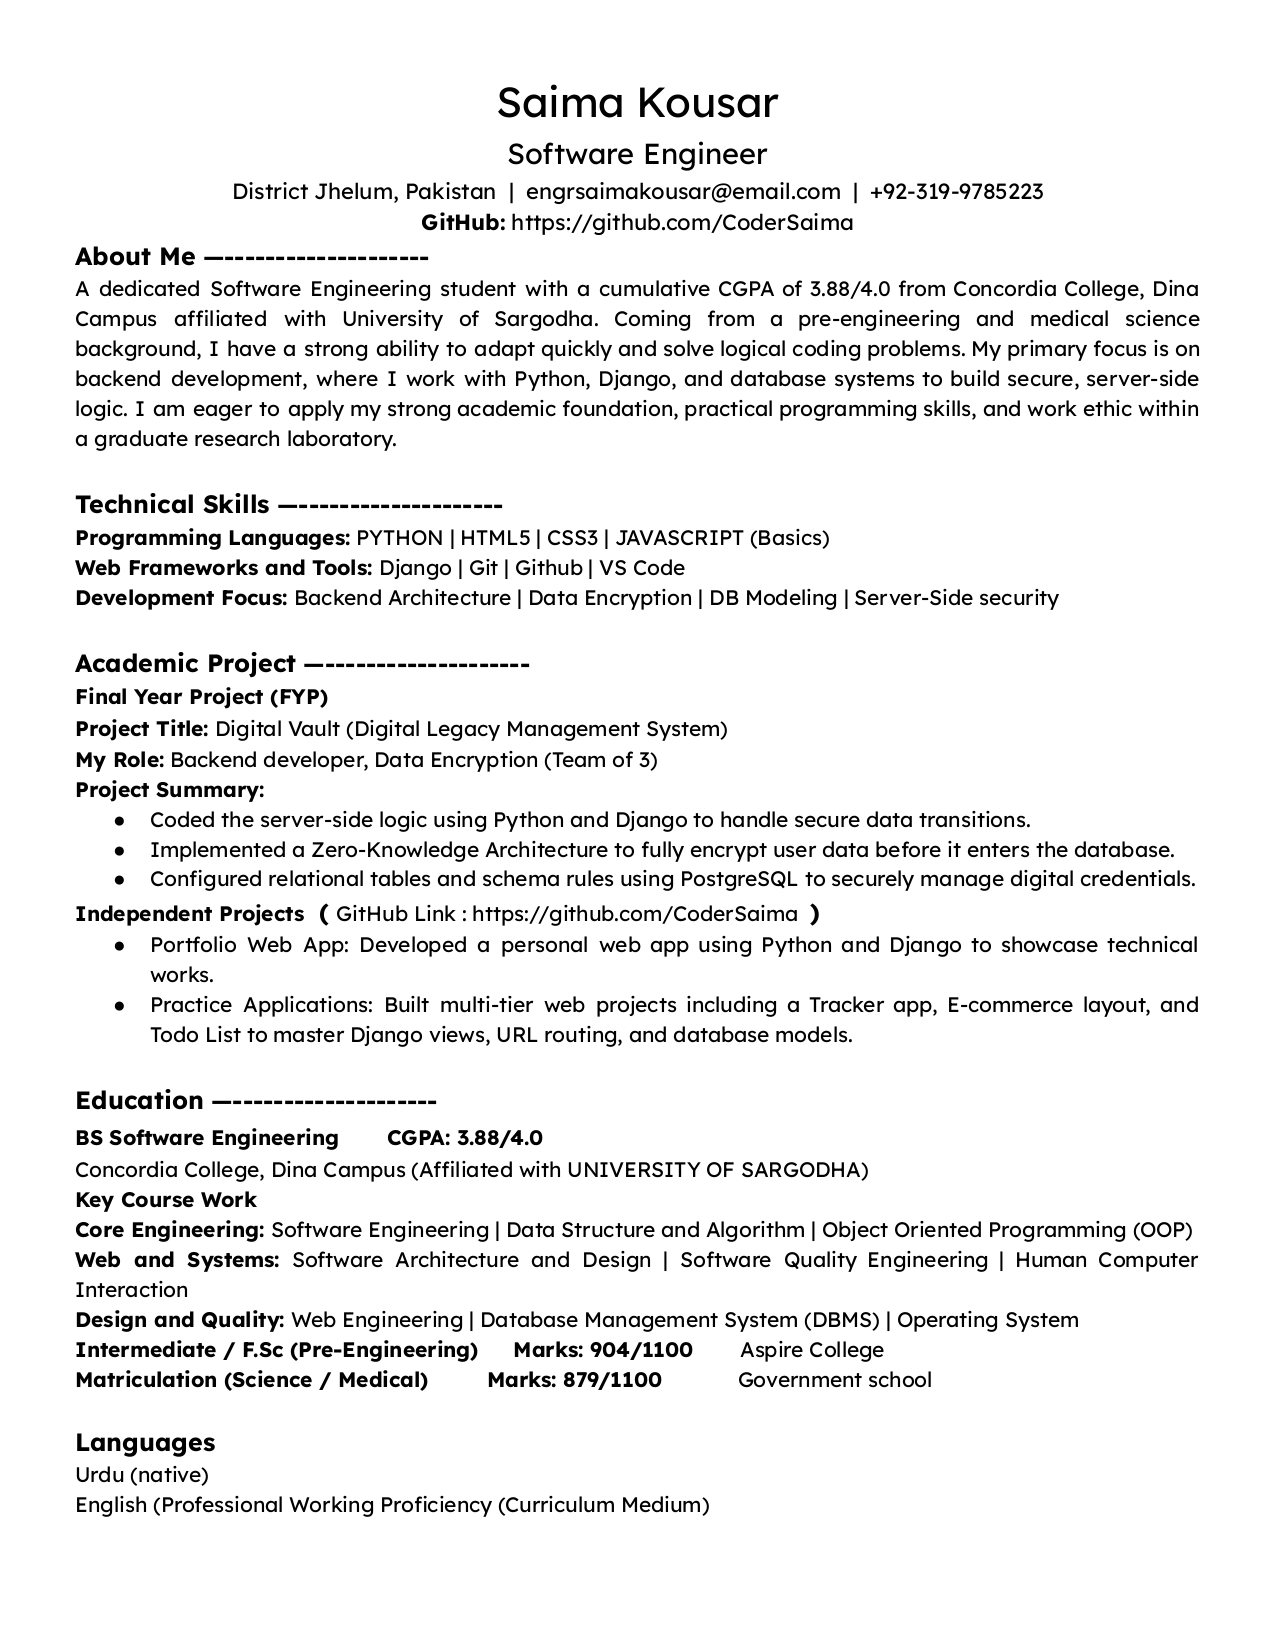
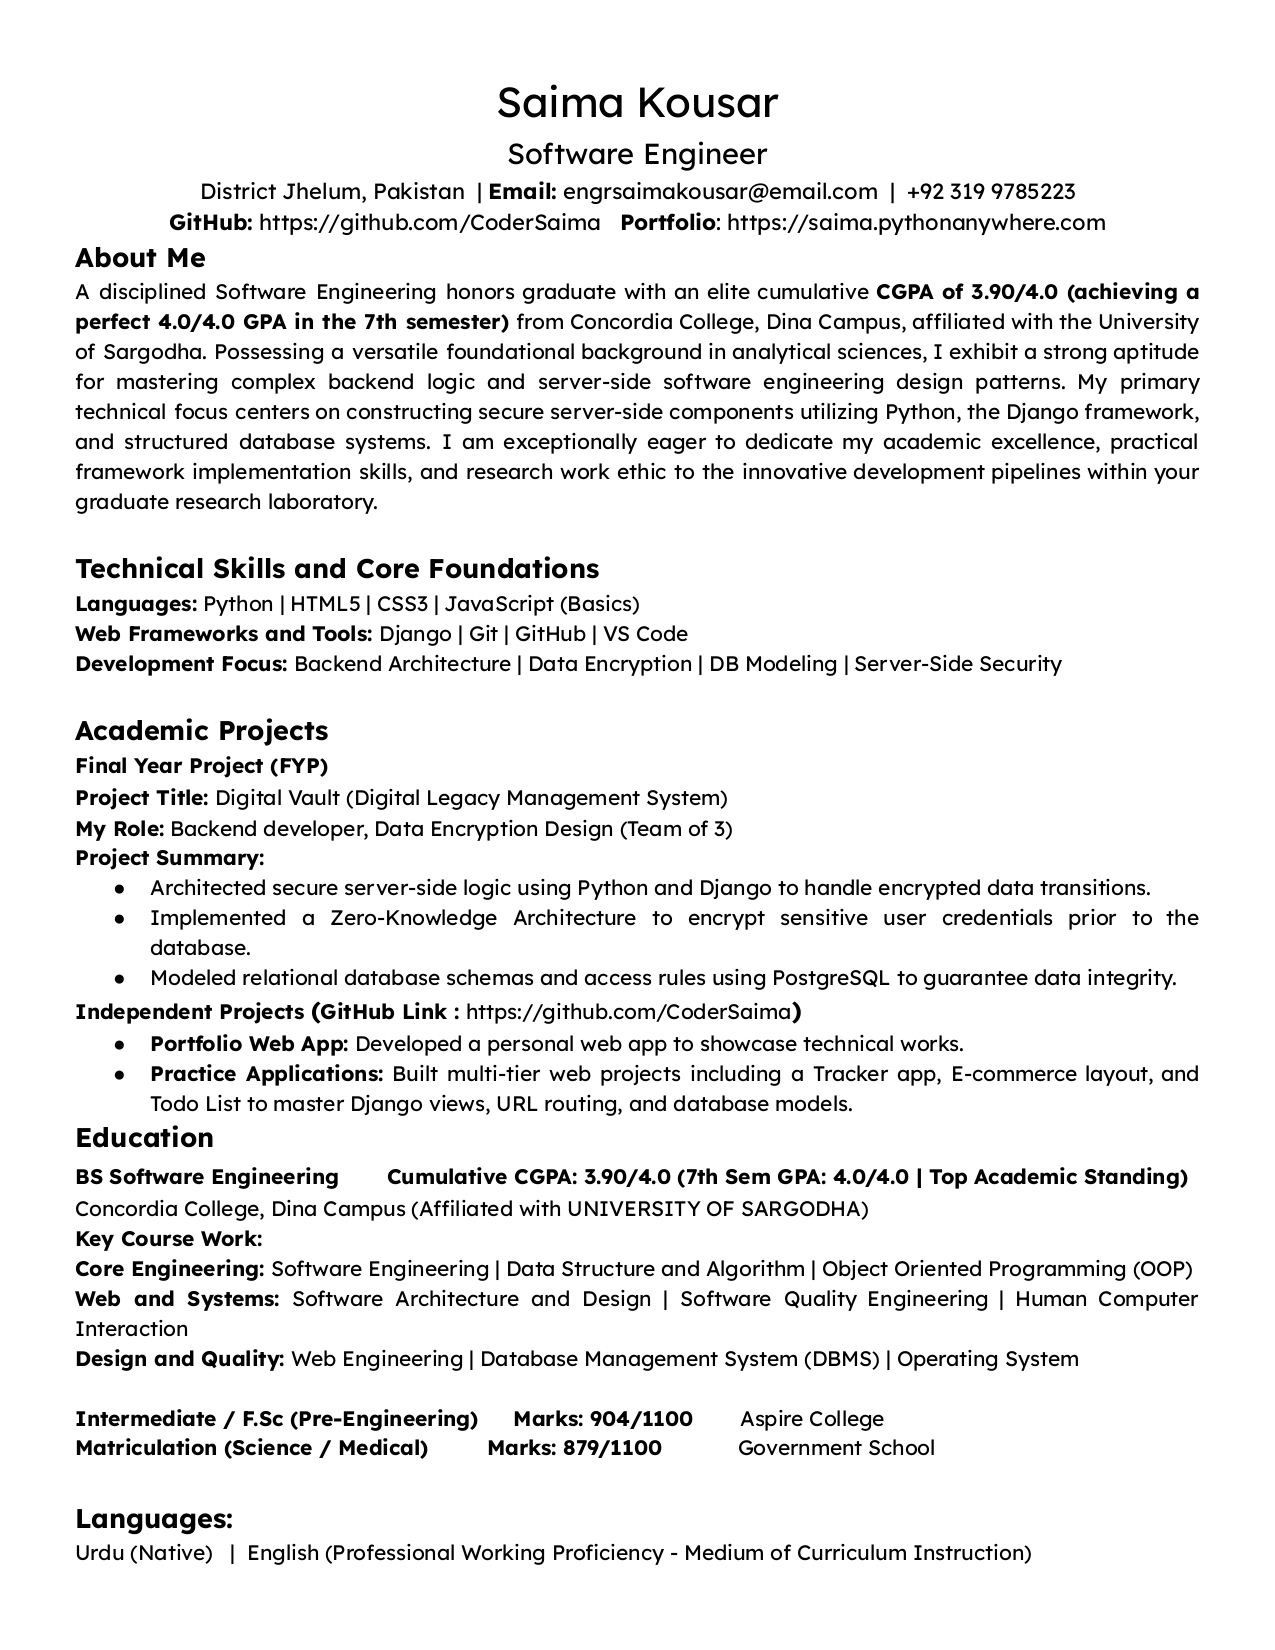
update resume image

diff --git a/portfolioApp/templates/about.html b/portfolioApp/templates/about.html
@@ -270,7 +270,7 @@ load static %} {% block content %}
       </h2>
 
       <!-- Clean, balanced Action Button with correct W3C SVG namespace -->
-      <a href="/static/images/Resume.jpg" target="_blank"
+      <a href="/static/images/resume.jpg" target="_blank"
         class="inline-flex items-center gap-2 text-sm font-semibold text-[#e58679] hover:text-white bg-[#0f1922] px-4 py-2 rounded-xl border border-gray-800 hover:border-gray-700/60 shadow-sm transition-all duration-300">
         <svg class="w-4 h-4" fill="none" stroke="currentColor" viewBox="0 0 24 24" xmlns="http://w3.org">
           <path stroke-linecap="round" stroke-linejoin="round" stroke-width="2"
@@ -285,7 +285,7 @@ load static %} {% block content %}
       class="group relative w-full h-[450px] bg-[#0f1922] rounded-2xl overflow-hidden border border-gray-800 hover:border-gray-700 shadow-2xl transition-all duration-500 cursor-zoom-in">
 
       <!-- The Clean Resume Image: Expands to full screen width, smoothly pans up on hover -->
-      <img src="/static/images/Resume.jpg" alt="Sana Arshad Resume"
+      <img src="/static/images/resume.jpg" alt="Saima Kousar Resume"
         class="w-full absolute top-0 left-0 object-cover object-top origin-top transition-all duration-[800ms] ease-out group-hover:scale-[1.03] group-hover:-translate-y-[35%]" />
 
       <!-- Ambient dark bottom gradient that clears up on interactive hover -->
